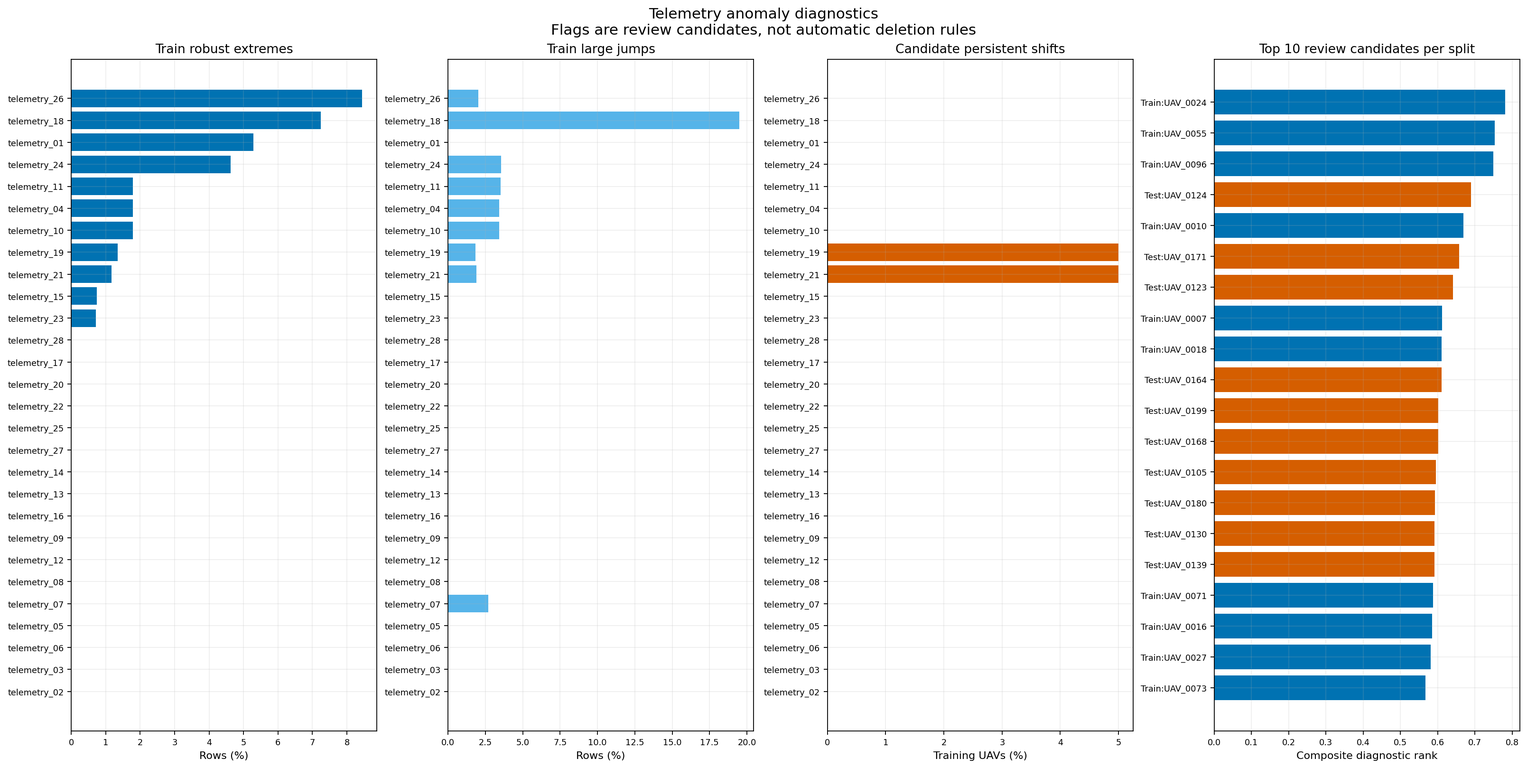
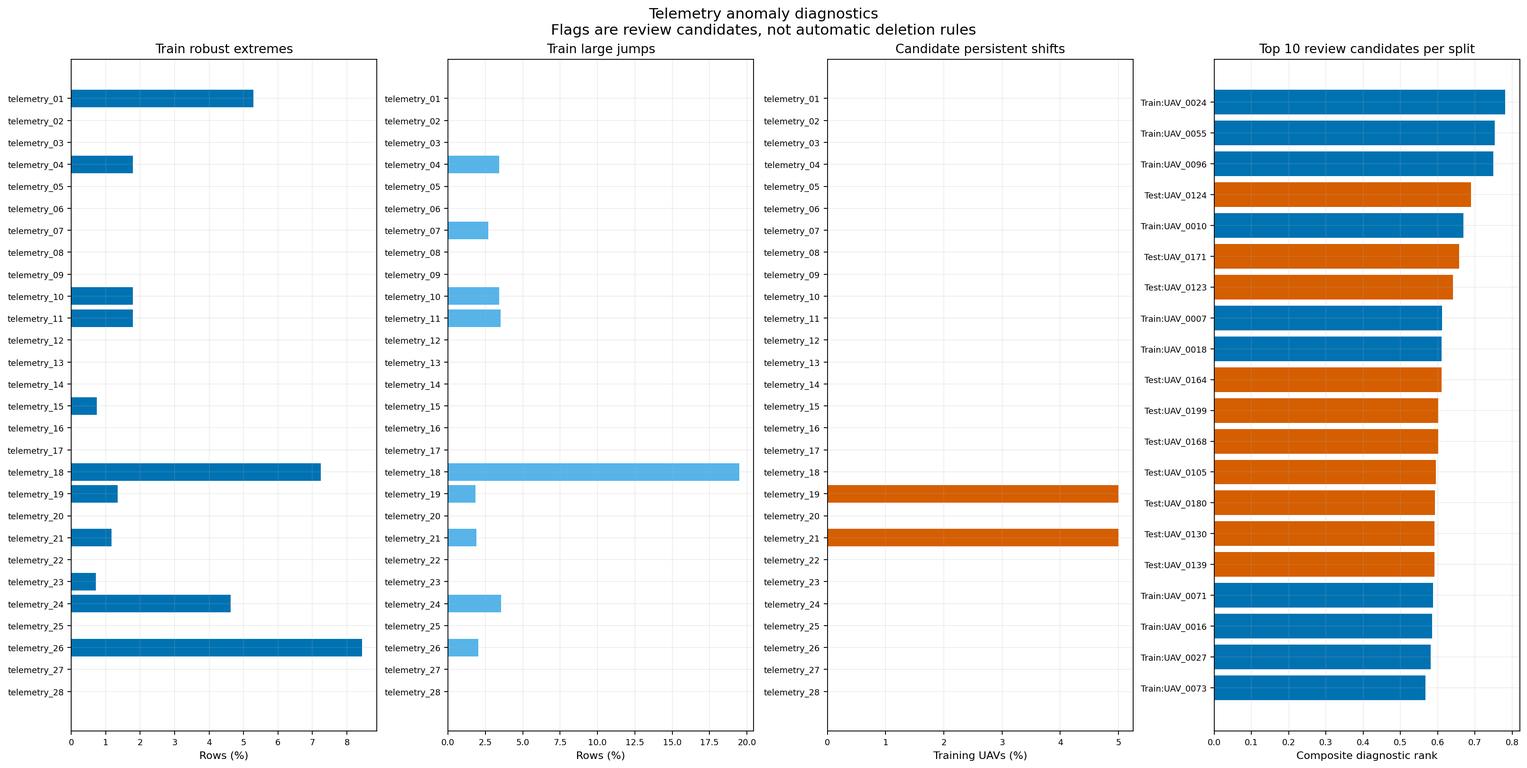
feat(data-analysis): enhance telemetry analysis with sorting and new features

diff --git a/data_analysis/core_data_analysis/anomaly_analysis.py b/data_analysis/core_data_analysis/anomaly_analysis.py
@@ -23,6 +23,7 @@ from core_common import (
     save_figure,
     save_table,
     selected_channels,
+    sort_telemetry_channels,
     style_axis,
 )
 
@@ -472,10 +473,9 @@ def plot_anomalies(
     output_dir,
     dpi: int,
 ) -> object:
-    train_summary = summary.loc[summary["split"] == "train"].sort_values(
-        "robust_extreme_rows_percent"
-    )
-    channels = train_summary["channel"].tolist()
+    train_summary = summary.loc[summary["split"] == "train"]
+    channels = sort_telemetry_channels(train_summary["channel"].tolist())
+    train_summary = train_summary.set_index("channel").loc[channels].reset_index()
     y = np.arange(len(channels))
     figure, axes = plt.subplots(1, 4, figsize=(20, 10), constrained_layout=True)
     axes[0].barh(y, train_summary["robust_extreme_rows_percent"], color=DARK_BLUE)
@@ -490,6 +490,8 @@ def plot_anomalies(
     axes[2].set_yticks(y, channels)
     axes[2].set_title("Candidate persistent shifts")
     axes[2].set_xlabel("Training UAVs (%)")
+    for axis in axes[:3]:
+        axis.invert_yaxis()
 
     top = priority.groupby("split", group_keys=False).head(top_uavs).copy()
     prefixes = top["split"].map({"train": "Train", "test": "Test"})

diff --git a/data_analysis/core_data_analysis/train_test_drift.py b/data_analysis/core_data_analysis/train_test_drift.py
@@ -19,6 +19,7 @@ from core_common import (
     save_figure,
     save_table,
     selected_channels,
+    sort_telemetry_channels,
     style_axis,
 )
 
@@ -214,10 +215,8 @@ def plot_drift(
 ) -> object:
     nonconstant = raw.loc[~raw["train_effectively_constant"], "channel"]
     matched = matched.loc[matched["channel"].isin(nonconstant)]
-    plotted = matched.sort_values(
-        "median_absolute_iqr_shift", ascending=True
-    ).reset_index(drop=True)
-    order = plotted["channel"].tolist()
+    order = sort_telemetry_channels(matched["channel"].tolist())
+    plotted = matched.set_index("channel").loc[order].reset_index()
     raw_indexed = raw.set_index("channel").loc[order]
     uav_indexed = uav.set_index("channel").loc[order]
     plotted = plotted.set_index("channel").loc[order]
@@ -245,6 +244,7 @@ def plot_drift(
     for axis in axes:
         style_axis(axis)
     axes[0].set_yticks(y, order)
+    axes[0].invert_yaxis()
     figure.suptitle(
         "Train/test telemetry drift\n"
         "Matched-age results compare each test endpoint with training UAVs observed at the same cycle",

diff --git a/data_analysis/core_data_analysis/feature_redundancy.py b/data_analysis/core_data_analysis/feature_redundancy.py
@@ -71,16 +71,14 @@ def main() -> None:
 
     if len(nonconstant) > 1:
         linkage = hierarchy.linkage(squareform(distance), method="average")
-        ordered_nonconstant = [nonconstant[index] for index in hierarchy.leaves_list(linkage)]
         cluster_ids = hierarchy.fcluster(
             linkage,
             t=1.0 - args.correlation_threshold,
             criterion="distance",
         )
     else:
-        ordered_nonconstant = nonconstant
         cluster_ids = np.ones(len(nonconstant), dtype=int)
-    order = ordered_nonconstant + constants
+    order = channels
 
     pair_records = []
     for left_index, channel_a in enumerate(nonconstant):
@@ -149,7 +147,7 @@ def main() -> None:
     colorbar.set_label("Correlation")
     figure.suptitle(
         "Telemetry redundancy at row and UAV-summary levels\n"
-        f"Ordering uses absolute Spearman structure; strong-pair threshold = {args.correlation_threshold:.2f}",
+        f"Channels are ordered 01-28; strong-pair threshold = {args.correlation_threshold:.2f}",
         fontsize=14,
     )
 

diff --git a/data_analysis/core_data_analysis/temporal_rul_analysis.py b/data_analysis/core_data_analysis/temporal_rul_analysis.py
@@ -26,6 +26,7 @@ from core_common import (
     save_figure,
     save_table,
     selected_channels,
+    sort_telemetry_channels,
     style_axis,
 )
 
@@ -209,9 +210,8 @@ def calculate_endpoint_rolling_features(
 
 
 def plot_summary(summary: pd.DataFrame, output_dir, dpi: int) -> object:
-    plotted = summary.sort_values(
-        "median_within_spearman_rul", na_position="first"
-    ).reset_index(drop=True)
+    channel_order = sort_telemetry_channels(summary["channel"].tolist())
+    plotted = summary.set_index("channel").loc[channel_order].reset_index()
     y = np.arange(len(plotted))
     figure, axes = plt.subplots(1, 4, figsize=(19, 10), sharey=True, constrained_layout=True)
 
@@ -259,6 +259,7 @@ def plot_summary(summary: pd.DataFrame, output_dir, dpi: int) -> object:
         axis.axvline(0, color=GRAY, linewidth=0.8)
         style_axis(axis)
     axes[0].set_yticks(y, plotted["channel"])
+    axes[0].invert_yaxis()
     axes[0].set_xlabel("Correlation")
     axes[1].set_xlabel("Partial correlation")
     axes[2].set_xlabel("Correlation")

diff --git a/data_analysis/core_data_analysis/channel_classification.py b/data_analysis/core_data_analysis/channel_classification.py
@@ -21,6 +21,7 @@ from core_common import (
     save_figure,
     save_table,
     selected_channels,
+    sort_telemetry_channels,
 )
 
 
@@ -175,10 +176,8 @@ def plot_classification(table: pd.DataFrame, output_dir: Path, dpi: int) -> Path
         "Redundancy",
         "Drift warning",
     ]
-    plotted = table.sort_values(
-        ["removal_candidate", "degradation_candidate", "context_candidate", "channel"],
-        ascending=[False, False, False, True],
-    )
+    channel_order = sort_telemetry_channels(table["channel"].tolist())
+    plotted = table.set_index("channel").loc[channel_order].reset_index()
     matrix = plotted[flag_columns].astype(int).to_numpy()
     figure, axis = plt.subplots(figsize=(11, 10), constrained_layout=True)
     axis.imshow(

diff --git a/data_analysis/core_data_analysis/core_common.py b/data_analysis/core_data_analysis/core_common.py
@@ -66,7 +66,13 @@ def make_parser(
 
 
 def selected_channels(args: argparse.Namespace) -> list[str]:
-    return list(dict.fromkeys(args.channels))
+    return sort_telemetry_channels(args.channels)
+
+
+def sort_telemetry_channels(channels: Sequence[str]) -> list[str]:
+    """Return unique telemetry names in numeric channel order."""
+    unique = dict.fromkeys(channels)
+    return sorted(unique, key=lambda channel: int(channel.rsplit("_", 1)[1]))
 
 
 def load_dataset(

diff --git a/Literature and Planning/phase_0_dataAnalysis.md b/Literature and Planning/phase_0_dataAnalysis.md
@@ -3,7 +3,7 @@
 
 Based on Lecture Notes:
 
-![Machine learning pipeline](../data_review/broad_data_review/figures/machine_learning_pipeline/machine_learning_pipeline.png)
+![Machine learning pipeline](../data_analysis/broad_data_review/figures/machine_learning_pipeline/machine_learning_pipeline.png)
 
 This file talks about the bullet points 1 to 5. Bullet point to is ignored as the dataset already exists.
 
@@ -14,7 +14,7 @@ Complete a reproducible data and validation audit before model development begin
 
 ## Broad Data Review
 
-![Training data preview](../data_review/broad_data_review/figures/data_overview/training_data_preview.png)
+![Training data preview](../data_analysis/broad_data_review/figures/data_overview/training_data_preview.png)
 
 The input data (train.csv) consists of 31 columns, the uav_id, the flight cycle of the UAV, 28 telemetry values and the RUL. These telemetry values need to be analyzed to what extent they correlate with the RUL. The training is therefore based on these values and the training cycle number but before that unnecessary telemetry data should be removed from the dataset.
 
@@ -28,7 +28,7 @@ The output data on the other hand, so the value the model should predict is simp
 ### Cycle-wise fleet-level telemetry trend analysis
 To find out which telemetry data is useful for us we can plot each telemetry column over its flight cycle number and check how they evolve.
 
-![Cycle-wise median and mean telemetry trends](../data_review/broad_data_review/figures/telemetry_over_cycles/telemetry_overview.png)
+![Cycle-wise median and mean telemetry trends](../data_analysis/broad_data_review/figures/telemetry_over_cycles/telemetry_overview.png)
 
 This plot shows the median (blue) and the average value of each telemetry channel (light blue) over the number of flight cycles.
 Here we can see that telemetry_03, telemetry_08, telemetry_14, telemetry_17, telemetry_20 and telemetry_27 stay constant over all UAVs and cycles. Therefore these channels are likely to be not useful for training the model.
@@ -51,7 +51,7 @@ In other words, here we see how much the data points vary in general for each te
 - Text: observation count, standard deviation, and IQR (Interquartile Range, measures the spread of the middle 50% of the data)
 
 
-![Telemetry descriptive statistics](../data_review/broad_data_review/figures/descriptive_statistics/descriptive_statistics.png)
+![Telemetry descriptive statistics](../data_analysis/broad_data_review/figures/descriptive_statistics/descriptive_statistics.png)
 
 
 **Findings:**
@@ -76,7 +76,7 @@ $$
 
 The training-derived boundaries are then applied unchanged to both the training and test datasets. Red points are training extremes, orange points are test extremes, and the dashed lines show the lower and upper boundaries. Looking at the extreme readings over flight cycle helps distinguish isolated sensor spikes from sustained UAV-specific operating regimes.
 
-![Extreme telemetry readings by flight cycle](../data_review/broad_data_review/figures/Tukey_extreme_readings_investigation/Tukey_extreme_readings_overview.png)
+![Extreme telemetry readings by flight cycle](../data_analysis/broad_data_review/figures/Tukey_extreme_readings_investigation/Tukey_extreme_readings_overview.png)
 
 **Findings:**
 
@@ -105,7 +105,7 @@ The plot describes the shape of each telemetry distribution across all recorded 
     - Zero: effectively constant channel.
 
 
-![Row-level telemetry statistics](../data_review/broad_data_review/figures/row_level_statistics/row_level_statistics.png)
+![Row-level telemetry statistics](../data_analysis/broad_data_review/figures/row_level_statistics/row_level_statistics.png)
 
 **Findings:**
 - Several channels are asymmetric or affected by extreme values, especially telemetry_07, 16, 18, 23, and 25. -> **Robust scaling** 
@@ -122,7 +122,7 @@ The UAV-level analysis first averages each telemetry channel within a UAV and th
 - Black diamond: mean across the 100 UAVs
 - Isolated dots: UAVs whose average differs substantially from the fleet
 
-![UAV-level telemetry statistics](../data_review/broad_data_review/figures/uav_level_statistics/uav_level_statistics.png)
+![UAV-level telemetry statistics](../data_analysis/broad_data_review/figures/uav_level_statistics/uav_level_statistics.png)
 
 This plot tells us about the following things:
 - Between-UAV variation: A wide distribution means UAVs operate at different average levels -> **Potential context feature**
@@ -150,7 +150,7 @@ Telemetry statistics are compared across cycles 1–50, 51–100, 101–200, and
 - n below each band: number of contributing rows.
 - Each subplot has its own vertical scale.
 
-![Telemetry statistics by flight-cycle age band](../data_review/broad_data_review/figures/age_band_statistics/age_band_statistics.png)
+![Telemetry statistics by flight-cycle age band](../data_analysis/broad_data_review/figures/age_band_statistics/age_band_statistics.png)
 
 
 **Findings:**
@@ -167,7 +167,7 @@ Telemetry statistics are compared across cycles 1–50, 51–100, 101–200, and
 
 Train and test history-length distributions show how much information is available at prediction time. The difference between the two distributions should guide the selection of test-like validation cutoffs. So it tells us how we must construct validation and training examples. The central point is that the **model must learn to predict from incomplete histories**, not only from complete run-to-failure sequences.
 
-![Train and test UAV history-length distributions](../data_review/broad_data_review/figures/history_length_distributions/history_length_distributions.png)
+![Train and test UAV history-length distributions](../data_analysis/broad_data_review/figures/history_length_distributions/history_length_distributions.png)
 
 
 **Findings:**
@@ -201,7 +201,7 @@ Train and test history-length distributions show how much information is availab
 
 Histograms and box plots expose skewness, clusters, operating regimes, spikes, saturation, and outliers. They support transformation choices and the anomaly-handling policy.
 
-![Telemetry histograms and box plots](../data_review/broad_data_review/figures/histograms_boxplots/histograms_boxplots.png)
+![Telemetry histograms and box plots](../data_analysis/broad_data_review/figures/histograms_boxplots/histograms_boxplots.png)
 
 **Findings:**
 
@@ -220,7 +220,7 @@ The plot divides each channel’s total variation into two sources:
 - Dark blue: variation within the same UAV over time
 - Light blue: variation between different UAVs’ average levels
 
-![Within-UAV versus between-UAV telemetry variance](../data_review/broad_data_review/figures/within_between_variance/within_between_variance.png)
+![Within-UAV versus between-UAV telemetry variance](../data_analysis/broad_data_review/figures/within_between_variance/within_between_variance.png)
 
 **Findings:**
 - Within-UAV dominated: telemetry_02, 04, 05, 07, 09, 10, 11, 13, 15, 16, 19, 21, 22, 23, 24, 25, and 28 -> **Potential sequence features: current value, slope, rolling statistics, recent change, and baseline deviation**
@@ -246,7 +246,7 @@ Flatline analysis measures consecutive exactly equal readings within each UAV. L
 - Right, yellow: percentage of UAVs containing a flatline of at least five cycles.
 - Right, orange: percentage of all rows belonging to those flatlines.
 
-![Telemetry flatline duration and prevalence](../data_review/broad_data_review/figures/flatline_duration/flatline_duration.png)
+![Telemetry flatline duration and prevalence](../data_analysis/broad_data_review/figures/flatline_duration/flatline_duration.png)
 
 **Findings:**
 - Fully constant: telemetry_20 and 27 -> **100% of their rows are flatlined; remove them**
@@ -259,30 +259,30 @@ Flatline analysis measures consecutive exactly equal readings within each UAV. L
 
 ### 1. Channel removal
 
-- Effectively constant: `telemetry_03`, `08`, `14`, `17`, `20`, and `27` -> **Remove them from the model because they contain no meaningful predictive variation. Keep the automated constant checks as data-quality gates.** (Source: [Within-UAV versus between-UAV variance](#within-uav-versus-between-uav-variance), [variance plot](../data_review/broad_data_review/figures/within_between_variance/within_between_variance.png); [Flatline duration](#flatline-duration), [flatline plot](../data_review/broad_data_review/figures/flatline_duration/flatline_duration.png))
+- Effectively constant: `telemetry_03`, `08`, `14`, `17`, `20`, and `27` -> **Remove them from the model because they contain no meaningful predictive variation. Keep the automated constant checks as data-quality gates.** (Source: [Within-UAV versus between-UAV variance](#within-uav-versus-between-uav-variance), [variance plot](../data_analysis/broad_data_review/figures/within_between_variance/within_between_variance.png); [Flatline duration](#flatline-duration), [flatline plot](../data_analysis/broad_data_review/figures/flatline_duration/flatline_duration.png))
 
 ### 2. Feature roles and engineering
 
-- Age-linked candidates: increasing `telemetry_12`, `13`, `15`, `19`, `21`, and `22`; decreasing `telemetry_06`, `11`, `16`, `23`, `24`, `25`, `26`, and `28` -> **Prioritize them for degradation-oriented sequence features, subject to within-UAV and grouped-validation confirmation.** (Source: [Age-band statistics](#age-band-statistics), [age-band plot](../data_review/broad_data_review/figures/age_band_statistics/age_band_statistics.png))
-- Within-UAV dominated: `telemetry_02`, `04`, `05`, `07`, `09`, `10`, `11`, `13`, `15`, `16`, `19`, `21`, `22`, `23`, `24`, `25`, and `28` -> **Test current value, slope, rolling statistics, recent change, and deviation from an early-life baseline.** (Source: [Within-UAV versus between-UAV variance](#within-uav-versus-between-uav-variance), [variance plot](../data_review/broad_data_review/figures/within_between_variance/within_between_variance.png))
-- Mixed within/between variation: `telemetry_06` and `12` -> **Use both prefix-derived UAV baselines and temporal-change features.** (Source: [Within-UAV versus between-UAV variance](#within-uav-versus-between-uav-variance), [variance plot](../data_review/broad_data_review/figures/within_between_variance/within_between_variance.png))
-- Between-UAV dominated: `telemetry_01`, `18`, and `26` -> **Treat primarily as context or baseline features and verify that they generalize to unseen UAVs.** (Source: [UAV-level statistics](#uav-level-statistics), [UAV-level plot](../data_review/broad_data_review/figures/uav_level_statistics/uav_level_statistics.png); [Within-UAV versus between-UAV variance](#within-uav-versus-between-uav-variance), [variance plot](../data_review/broad_data_review/figures/within_between_variance/within_between_variance.png))
-- Discrete or regime-like: `telemetry_05`, `07`, `16`, and `18` -> **Investigate operating-state, level, transition-count, and dwell-time features rather than assuming continuous degradation.** (Source: [Histograms and box plots](#histograms-and-box-plots), [distribution plot](../data_review/broad_data_review/figures/histograms_boxplots/histograms_boxplots.png); [Flatline duration](#flatline-duration), [flatline plot](../data_review/broad_data_review/figures/flatline_duration/flatline_duration.png))
-- Age-stable but nonconstant: `telemetry_01`, `02`, `04`, `05`, `09`, and `10` -> **Do not treat them as primary age-degradation indicators; retain them only if context features or grouped validation add value.** (Source: [Age-band statistics](#age-band-statistics), [age-band plot](../data_review/broad_data_review/figures/age_band_statistics/age_band_statistics.png))
+- Age-linked candidates: increasing `telemetry_12`, `13`, `15`, `19`, `21`, and `22`; decreasing `telemetry_06`, `11`, `16`, `23`, `24`, `25`, `26`, and `28` -> **Prioritize them for degradation-oriented sequence features, subject to within-UAV and grouped-validation confirmation.** (Source: [Age-band statistics](#age-band-statistics), [age-band plot](../data_analysis/broad_data_review/figures/age_band_statistics/age_band_statistics.png))
+- Within-UAV dominated: `telemetry_02`, `04`, `05`, `07`, `09`, `10`, `11`, `13`, `15`, `16`, `19`, `21`, `22`, `23`, `24`, `25`, and `28` -> **Test current value, slope, rolling statistics, recent change, and deviation from an early-life baseline.** (Source: [Within-UAV versus between-UAV variance](#within-uav-versus-between-uav-variance), [variance plot](../data_analysis/broad_data_review/figures/within_between_variance/within_between_variance.png))
+- Mixed within/between variation: `telemetry_06` and `12` -> **Use both prefix-derived UAV baselines and temporal-change features.** (Source: [Within-UAV versus between-UAV variance](#within-uav-versus-between-uav-variance), [variance plot](../data_analysis/broad_data_review/figures/within_between_variance/within_between_variance.png))
+- Between-UAV dominated: `telemetry_01`, `18`, and `26` -> **Treat primarily as context or baseline features and verify that they generalize to unseen UAVs.** (Source: [UAV-level statistics](#uav-level-statistics), [UAV-level plot](../data_analysis/broad_data_review/figures/uav_level_statistics/uav_level_statistics.png); [Within-UAV versus between-UAV variance](#within-uav-versus-between-uav-variance), [variance plot](../data_analysis/broad_data_review/figures/within_between_variance/within_between_variance.png))
+- Discrete or regime-like: `telemetry_05`, `07`, `16`, and `18` -> **Investigate operating-state, level, transition-count, and dwell-time features rather than assuming continuous degradation.** (Source: [Histograms and box plots](#histograms-and-box-plots), [distribution plot](../data_analysis/broad_data_review/figures/histograms_boxplots/histograms_boxplots.png); [Flatline duration](#flatline-duration), [flatline plot](../data_analysis/broad_data_review/figures/flatline_duration/flatline_duration.png))
+- Age-stable but nonconstant: `telemetry_01`, `02`, `04`, `05`, `09`, and `10` -> **Do not treat them as primary age-degradation indicators; retain them only if context features or grouped validation add value.** (Source: [Age-band statistics](#age-band-statistics), [age-band plot](../data_analysis/broad_data_review/figures/age_band_statistics/age_band_statistics.png))
 
 ### 3. Scaling, transformations, and anomaly handling
 
-- Strongly different channel scales -> **Use robust scaling for linear, neural, distance-based, and similar scale-sensitive models; tree-based models do not require scaling.** (Source: [Descriptive statistics](#descriptive-statistics), [descriptive-statistics plot](../data_review/broad_data_review/figures/descriptive_statistics/descriptive_statistics.png))
-- Skewed continuous channels: `telemetry_15`, `21`, `23`, `24`, `25`, `26`, and `28` -> **Test robust scaling or Yeo-Johnson transformation for linear and neural models; retain the transformation only if grouped validation improves.** (Source: [Histograms and box plots](#histograms-and-box-plots), [distribution plot](../data_review/broad_data_review/figures/histograms_boxplots/histograms_boxplots.png); [Row-level statistics](#row-level-statistics), [row-level plot](../data_review/broad_data_review/figures/row_level_statistics/row_level_statistics.png))
-- Mostly isolated extremes: `telemetry_04`, `10`, and `11` -> **Test individual-spike and synchronized-event flags instead of automatically removing the rows.** (Source: [Tukey's Range Test](#tukeys-range-test), [extreme-reading plot](../data_review/broad_data_review/figures/Tukey_extreme_readings_investigation/Tukey_extreme_readings_overview.png))
-- Mostly sustained UAV-specific extremes: `telemetry_01`, `18`, and `26` -> **Test regime flags because these patterns are more consistent with context or calibration differences than isolated sensor spikes.** (Source: [Tukey's Range Test](#tukeys-range-test), [extreme-reading plot](../data_review/broad_data_review/figures/Tukey_extreme_readings_investigation/Tukey_extreme_readings_overview.png))
-- Mixed extremes: `telemetry_24` -> **Do not clip or remove automatically; test separate low- and high-extreme flags if validation supports them.** (Source: [Tukey's Range Test](#tukeys-range-test), [extreme-reading plot](../data_review/broad_data_review/figures/Tukey_extreme_readings_investigation/Tukey_extreme_readings_overview.png))
+- Strongly different channel scales -> **Use robust scaling for linear, neural, distance-based, and similar scale-sensitive models; tree-based models do not require scaling.** (Source: [Descriptive statistics](#descriptive-statistics), [descriptive-statistics plot](../data_analysis/broad_data_review/figures/descriptive_statistics/descriptive_statistics.png))
+- Skewed continuous channels: `telemetry_15`, `21`, `23`, `24`, `25`, `26`, and `28` -> **Test robust scaling or Yeo-Johnson transformation for linear and neural models; retain the transformation only if grouped validation improves.** (Source: [Histograms and box plots](#histograms-and-box-plots), [distribution plot](../data_analysis/broad_data_review/figures/histograms_boxplots/histograms_boxplots.png); [Row-level statistics](#row-level-statistics), [row-level plot](../data_analysis/broad_data_review/figures/row_level_statistics/row_level_statistics.png))
+- Mostly isolated extremes: `telemetry_04`, `10`, and `11` -> **Test individual-spike and synchronized-event flags instead of automatically removing the rows.** (Source: [Tukey's Range Test](#tukeys-range-test), [extreme-reading plot](../data_analysis/broad_data_review/figures/Tukey_extreme_readings_investigation/Tukey_extreme_readings_overview.png))
+- Mostly sustained UAV-specific extremes: `telemetry_01`, `18`, and `26` -> **Test regime flags because these patterns are more consistent with context or calibration differences than isolated sensor spikes.** (Source: [Tukey's Range Test](#tukeys-range-test), [extreme-reading plot](../data_analysis/broad_data_review/figures/Tukey_extreme_readings_investigation/Tukey_extreme_readings_overview.png))
+- Mixed extremes: `telemetry_24` -> **Do not clip or remove automatically; test separate low- and high-extreme flags if validation supports them.** (Source: [Tukey's Range Test](#tukeys-range-test), [extreme-reading plot](../data_analysis/broad_data_review/figures/Tukey_extreme_readings_investigation/Tukey_extreme_readings_overview.png))
 - All anomaly boundaries, scalers, and transformations -> **Fit them using only the training portion of each validation fold.** (Source: [Descriptive statistics](#descriptive-statistics); [Tukey's Range Test](#tukeys-range-test))
 
 ### 4. Training and validation construction
 
-- Test histories are shorter than complete training histories, with 47% of test UAVs ending before cycle 145 -> **Train and validate on partial UAV prefixes, emphasizing cutoffs from cycles 38-144 and sampling from the observed test-length distribution.** (Source: [History-length distributions](#history-length-distributions), [history-length plot](../data_review/broad_data_review/figures/history_length_distributions/history_length_distributions.png))
-- History lengths vary from 145-525 cycles in train and 38-475 in test -> **Support variable-length inputs, give each UAV equal total weight, report metrics by cutoff band, and treat very long-cutoff results cautiously.** (Source: [History-length distributions](#history-length-distributions), [history-length plot](../data_review/broad_data_review/figures/history_length_distributions/history_length_distributions.png))
+- Test histories are shorter than complete training histories, with 47% of test UAVs ending before cycle 145 -> **Train and validate on partial UAV prefixes, emphasizing cutoffs from cycles 38-144 and sampling from the observed test-length distribution.** (Source: [History-length distributions](#history-length-distributions), [history-length plot](../data_analysis/broad_data_review/figures/history_length_distributions/history_length_distributions.png))
+- History lengths vary from 145-525 cycles in train and 38-475 in test -> **Support variable-length inputs, give each UAV equal total weight, report metrics by cutoff band, and treat very long-cutoff results cautiously.** (Source: [History-length distributions](#history-length-distributions), [history-length plot](../data_analysis/broad_data_review/figures/history_length_distributions/history_length_distributions.png))
 - UAV grouping -> **Split by `uav_id` before generating prefixes; keep every prefix from one UAV in the same fold.** (Source: [History-length distributions - general validation rules](#history-length-distributions))
 - Recommended starting design -> **Use five fixed UAV folds, a fixed number of cutoffs per training UAV (for example 20), and 20 locked test-like validation scenarios. Treat these numbers as configurable design choices.** (Source: [History-length distributions - general validation rules](#history-length-distributions))
 - Prefix leakage control -> **Build every feature from cycles available at the cutoff only; never use full-history length, final cycle, terminal lifetime, future telemetry, or other post-cutoff information.** (Source: [History-length distributions - general validation rules](#history-length-distributions))
@@ -290,9 +290,47 @@ Flatline analysis measures consecutive exactly equal readings within each UAV. L
 
 ### 5. Caveats and required validation
 
-- Late-cycle fleet trends and widening IQRs may partly reflect survivor or fleet-composition effects -> **Confirm apparent degradation using consistent within-UAV trends rather than fleet aggregates alone.** (Source: [Cycle-wise fleet-level telemetry trend analysis](#cycle-wise-fleet-level-telemetry-trend-analysis), [cycle-wise plot](../data_review/broad_data_review/figures/telemetry_over_cycles/telemetry_overview.png); [Age-band statistics](#age-band-statistics), [age-band plot](../data_review/broad_data_review/figures/age_band_statistics/age_band_statistics.png))
-- Within-UAV variation may be degradation, noise, or operating-state change, while between-UAV variation may be useful context or unwanted identity -> **Use UAV-grouped ablation tests to decide which raw and engineered features generalize.** (Source: [Within-UAV versus between-UAV variance](#within-uav-versus-between-uav-variance), [variance plot](../data_review/broad_data_review/figures/within_between_variance/within_between_variance.png))
-- Skewness, extremes, flatlines, and operating regimes do not prove predictive value -> **Keep transformations, flags, and channels only when locked grouped validation improves RUL performance.** (Source: [Row-level statistics](#row-level-statistics), [row-level plot](../data_review/broad_data_review/figures/row_level_statistics/row_level_statistics.png); [Histograms and box plots](#histograms-and-box-plots), [distribution plot](../data_review/broad_data_review/figures/histograms_boxplots/histograms_boxplots.png); [Flatline duration](#flatline-duration), [flatline plot](../data_review/broad_data_review/figures/flatline_duration/flatline_duration.png))
+- Late-cycle fleet trends and widening IQRs may partly reflect survivor or fleet-composition effects -> **Confirm apparent degradation using consistent within-UAV trends rather than fleet aggregates alone.** (Source: [Cycle-wise fleet-level telemetry trend analysis](#cycle-wise-fleet-level-telemetry-trend-analysis), [cycle-wise plot](../data_analysis/broad_data_review/figures/telemetry_over_cycles/telemetry_overview.png); [Age-band statistics](#age-band-statistics), [age-band plot](../data_analysis/broad_data_review/figures/age_band_statistics/age_band_statistics.png))
+- Within-UAV variation may be degradation, noise, or operating-state change, while between-UAV variation may be useful context or unwanted identity -> **Use UAV-grouped ablation tests to decide which raw and engineered features generalize.** (Source: [Within-UAV versus between-UAV variance](#within-uav-versus-between-uav-variance), [variance plot](../data_analysis/broad_data_review/figures/within_between_variance/within_between_variance.png))
+- Skewness, extremes, flatlines, and operating regimes do not prove predictive value -> **Keep transformations, flags, and channels only when locked grouped validation improves RUL performance.** (Source: [Row-level statistics](#row-level-statistics), [row-level plot](../data_analysis/broad_data_review/figures/row_level_statistics/row_level_statistics.png); [Histograms and box plots](#histograms-and-box-plots), [distribution plot](../data_analysis/broad_data_review/figures/histograms_boxplots/histograms_boxplots.png); [Flatline duration](#flatline-duration), [flatline plot](../data_analysis/broad_data_review/figures/flatline_duration/flatline_duration.png))
 
 
 ## Core Data Analysis
+
+As the previous chapters focused on a broad review of the data indicating the importance of certain channels and the removel of others, as well as showing that some channels include anomalies, we want to now focus actually verify and identify these.
+
+### Temporal and RUL relationships
+
+This analysis compares pooled correlations, age-controlled associations, within-UAV relationships, and the consistency of increasing or decreasing trends across UAVs.
+
+![Temporal and RUL telemetry evidence](../data_analysis/core_data_analysis/figures/temporal_rul/temporal_rul_summary.png)
+
+### Representative UAV trajectories
+
+Short-, median-, and long-history training UAVs are compared with test UAVs observed at similar ages. Values are expressed as robust Z-scores calculated from the training data so channels with different scales can be compared in one figure.
+
+![Representative UAV telemetry trajectories](../data_analysis/core_data_analysis/figures/representative_trajectories/representative_trajectories.png)
+
+### Feature redundancy
+
+Pearson and Spearman correlations are compared at row level and between UAV-level means. This reveals channel groups that may contain overlapping information and whether their relationships are temporal or primarily between UAVs.
+
+![Telemetry correlation and redundancy heatmaps](../data_analysis/core_data_analysis/figures/feature_redundancy/correlation_heatmaps.png)
+
+### Train/test drift
+
+Train and test telemetry distributions are compared across all rows, equally weighted UAV summaries, and test endpoints matched with training UAVs observed at the same flight cycle.
+
+![Train and test telemetry drift](../data_analysis/core_data_analysis/figures/train_test_drift/train_test_drift.png)
+
+### Anomaly diagnostics
+
+The anomaly overview combines robust extreme readings, large cycle-to-cycle jumps, candidate persistent shifts, and the highest-priority UAVs for manual review. These flags indicate observations requiring investigation, not rows that should automatically be removed.
+
+![Telemetry anomaly diagnostics](../data_analysis/core_data_analysis/figures/anomalies/anomaly_summary.png)
+
+### Initial channel classification
+
+The combined evidence is summarized as an initial screening classification covering removal, degradation, context, state or regime, anomaly, redundancy, and train/test drift indicators.
+
+![Initial telemetry channel classification](../data_analysis/core_data_analysis/figures/channel_classification/channel_classification.png)

diff --git a/data_analysis/core_data_analysis/README.md b/data_analysis/core_data_analysis/README.md
@@ -19,7 +19,7 @@ visual inspection alone.
 | --- | --- | --- |
 | `temporal_rul_analysis.py` | Does each channel consistently change with cycle or RUL within UAVs? | Pooled/partial correlations, per-UAV correlations and slopes, early/late changes, endpoint rolling features |
 | `representative_trajectories.py` | Are aggregate findings visible in individual short-, median-, and long-history UAVs? | Train-referenced robust-Z trajectory heatmaps and selected-UAV table |
-| `feature_redundancy.py` | Which channels contain overlapping information? | Row/UAV Pearson and Spearman matrices, clustered heatmap, strong pairs and clusters |
+| `feature_redundancy.py` | Which channels contain overlapping information? | Row/UAV Pearson and Spearman matrices, numeric-order heatmap, strong pairs and clusters |
 | `train_test_drift.py` | Do train and test differ after accounting for observed age? | Row, UAV, age-band, and exact-age endpoint drift tables |
 | `anomaly_analysis.py` | Which readings and UAV histories require review? | MAD flags, jump flags, persistent-shift candidates, similar histories, ranked UAV review list |
 | `channel_classification.py` | What initial role does the combined evidence support for each channel? | Transparent threshold-based evidence table and overview plot |
